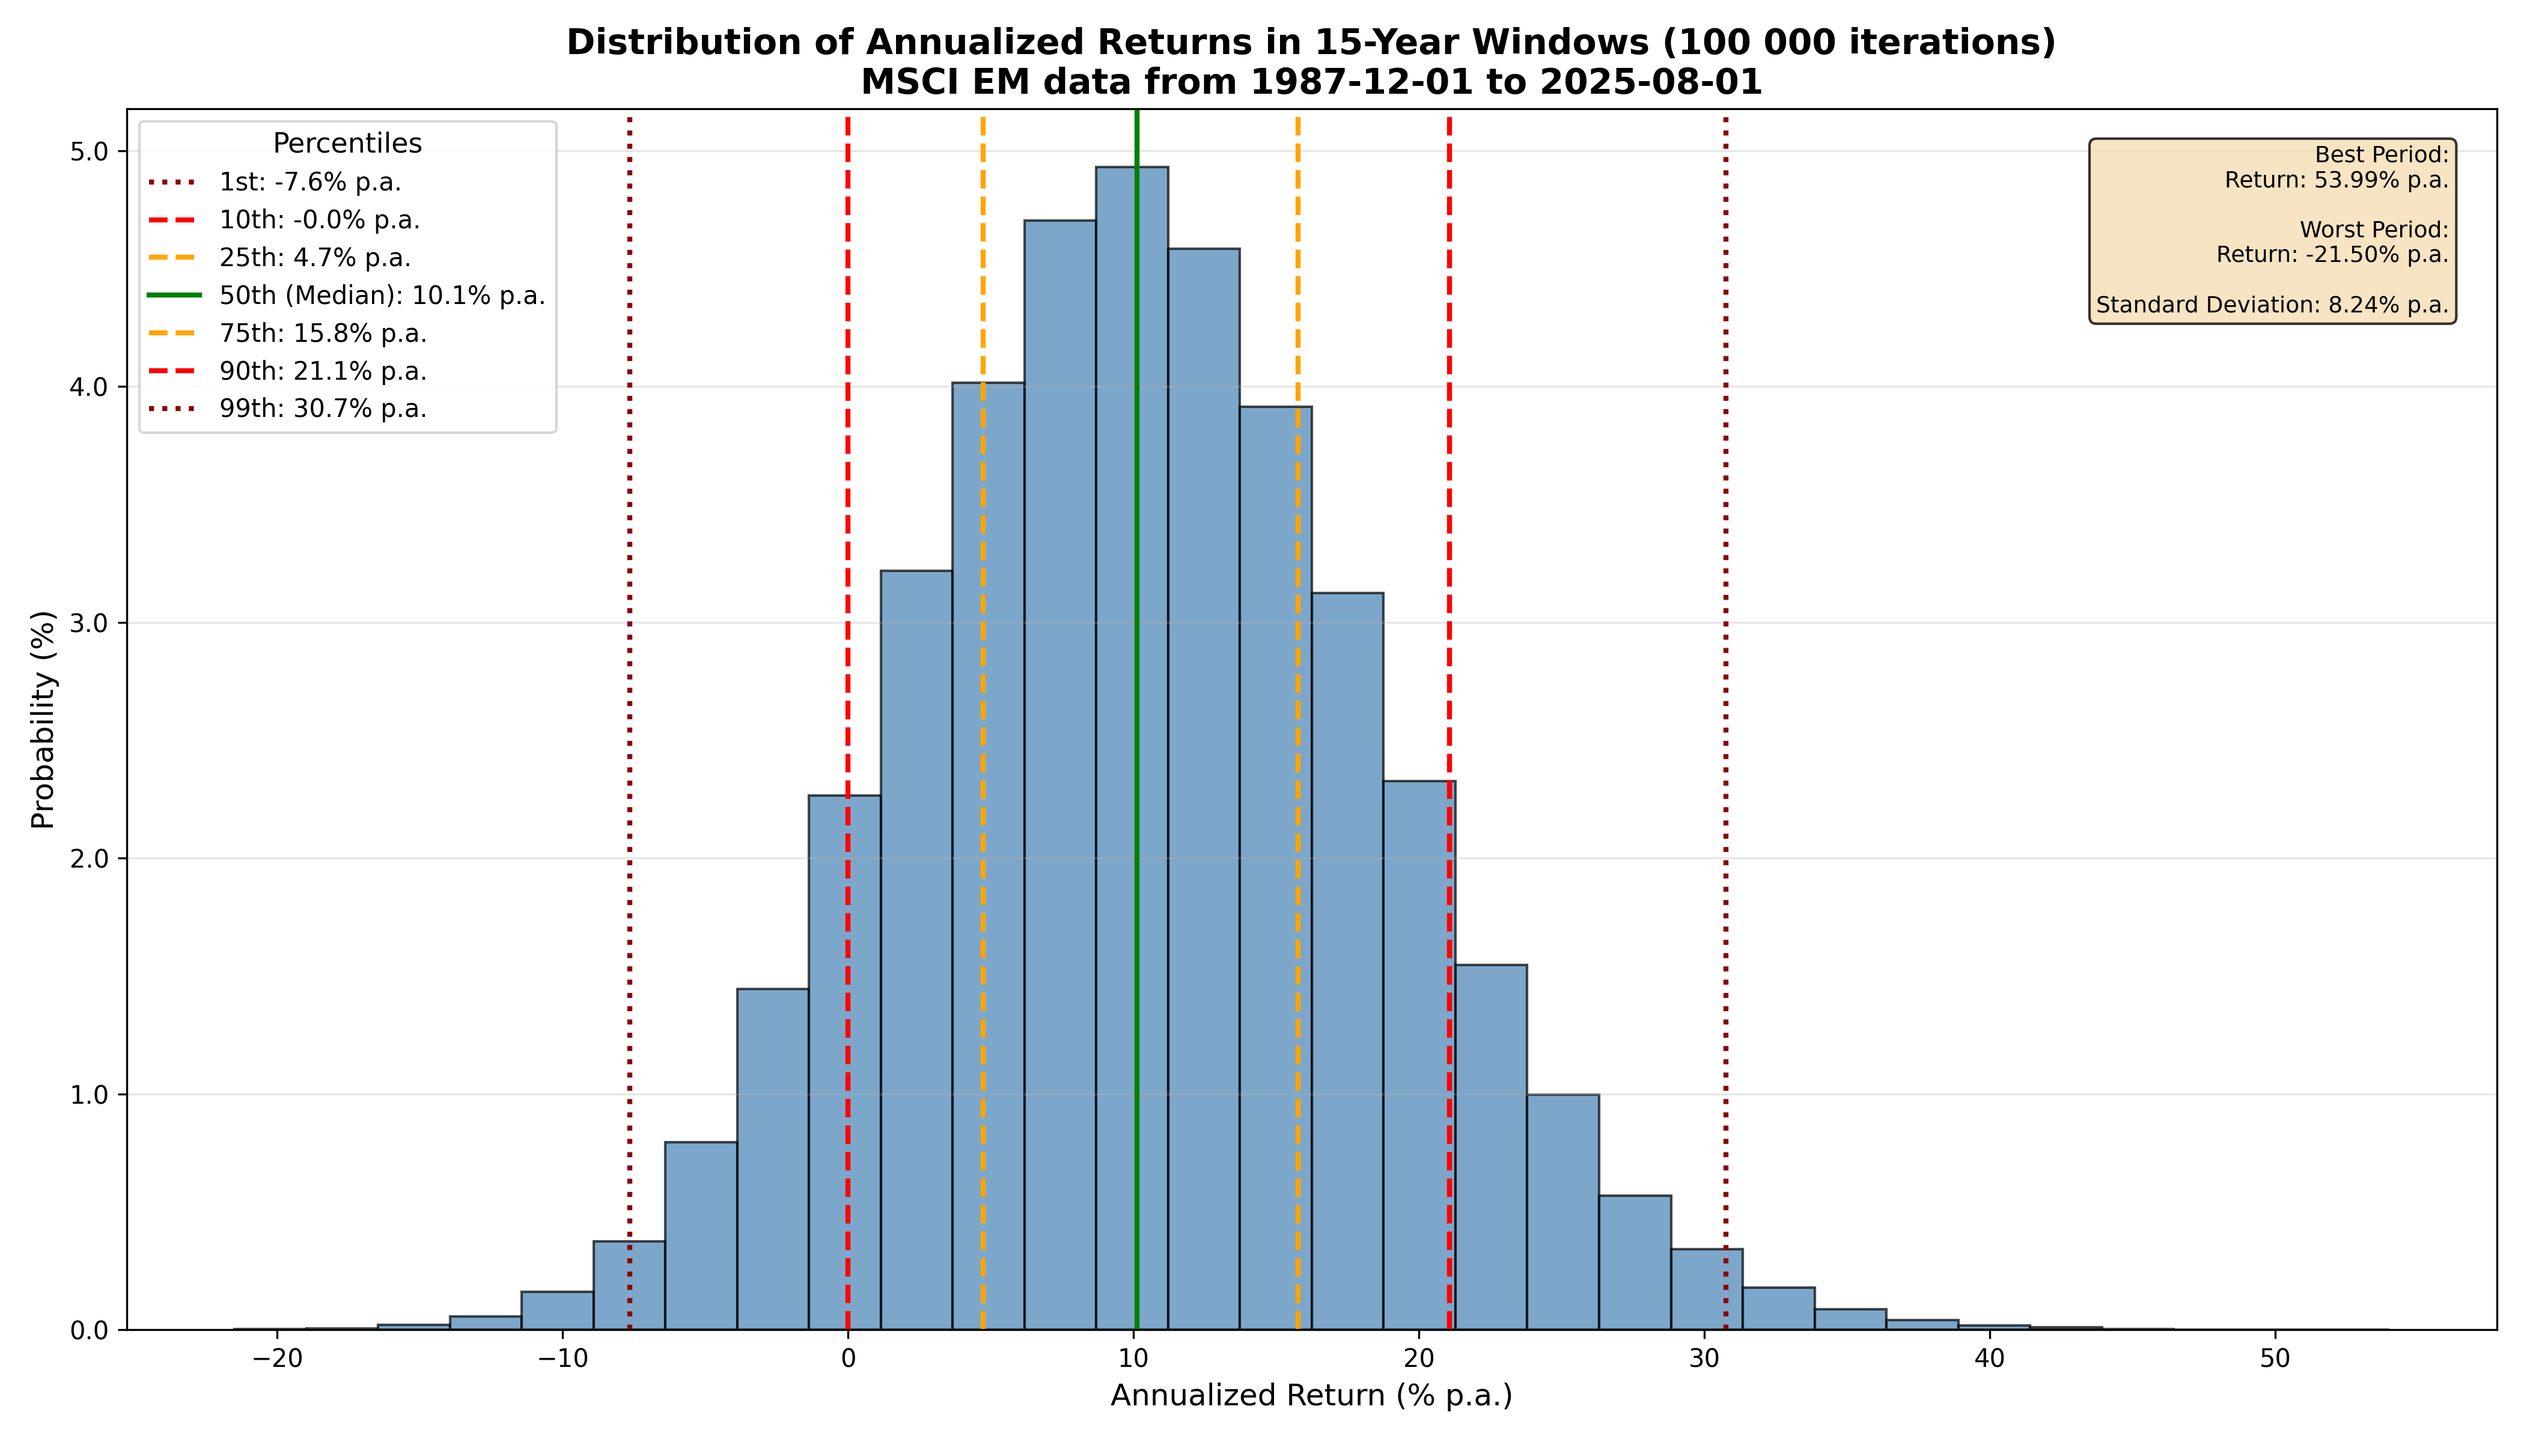
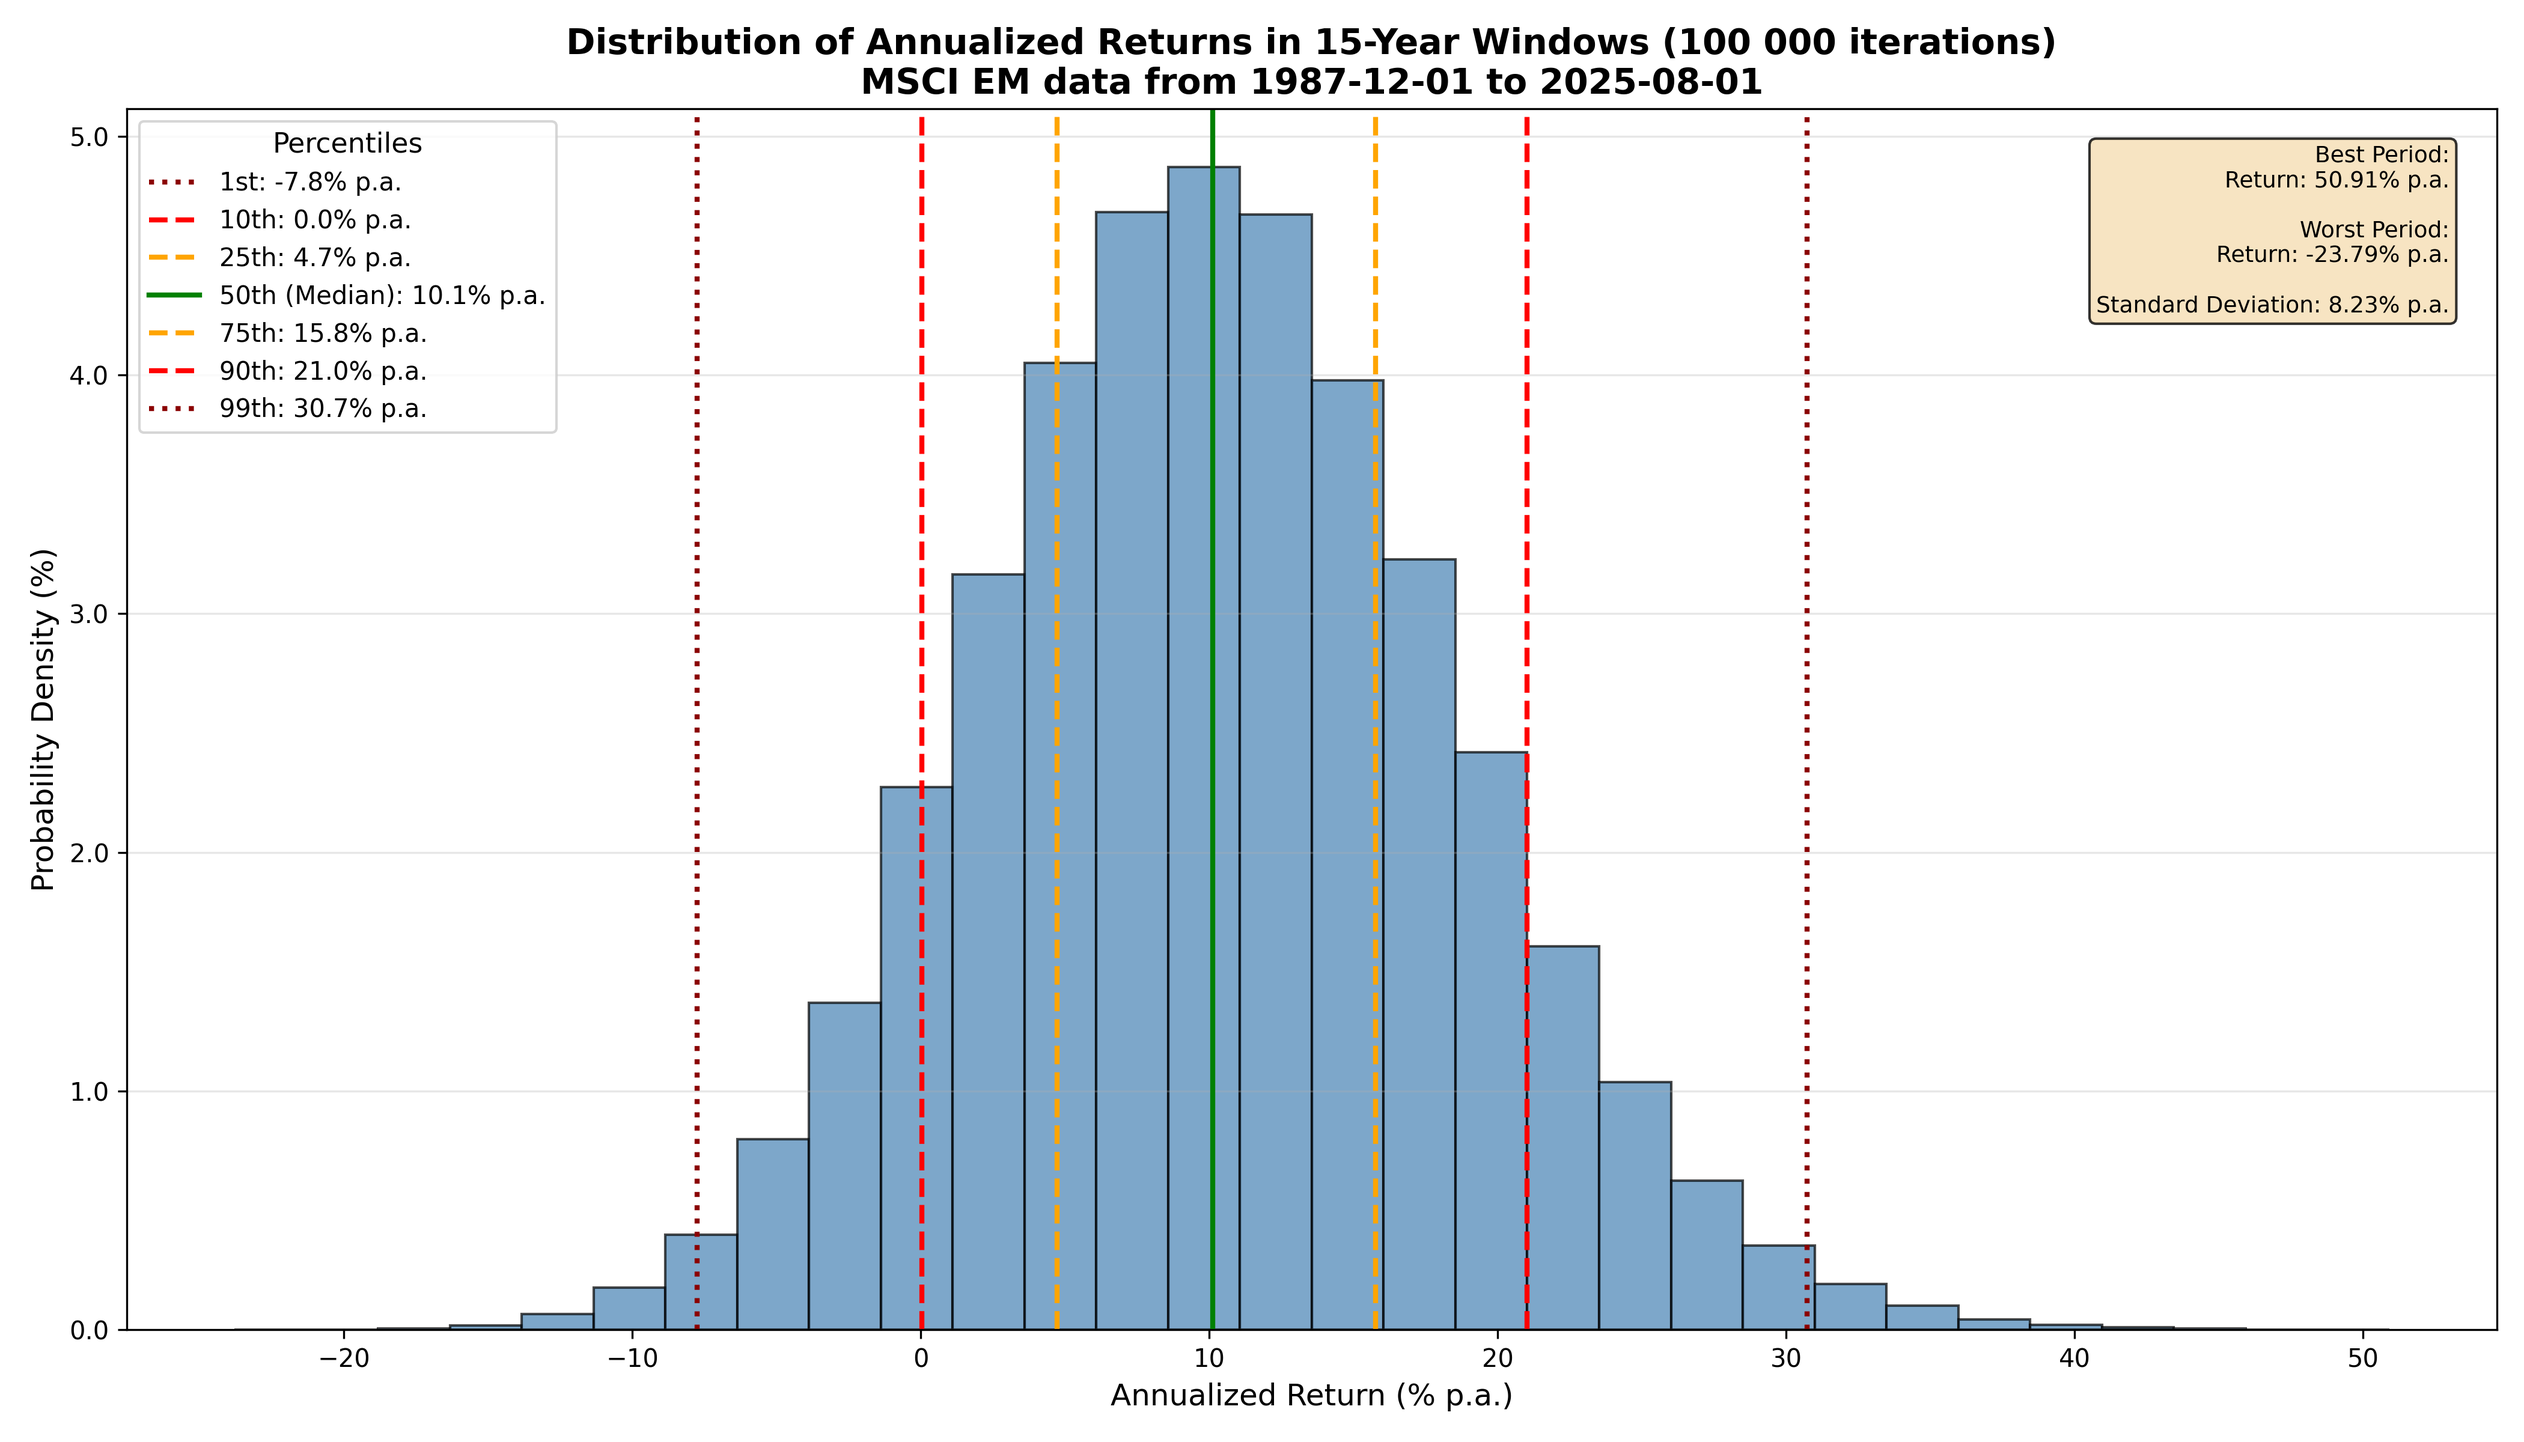
fixed typo

diff --git a/run.py b/run.py
@@ -8,9 +8,9 @@ import matplotlib.pyplot as plt
 #ticker = "^GSPC"    # S&P 500 index (much longer, WARNING: does not include dividends)
 #ticker = "^SP500TR"  # S&P 500 index including reinvested dividends (total return)
 #ticker = "^GDAXI"   # DAX index including reinvested dividends (total return)
-ticker = "data/msci_world_curvo.csv"  # CSV file (needs Date column + price column)
+ticker = "data/ftse_all_world_curvo.csv"  # CSV file (needs Date column + price column)
 duration_years = 15 # Number of years for each return period
-plot_name = "" # Optional; sets custom name in plot title when not empty
+plot_name = "FTSE All-World" # Optional; sets custom name in plot title when not empty
 
 scramble_years = True # Pick random years (True: Standard Bootstrap) instead of sequential years (False: Block Bootstrap)
 scramble_iteration = 1e5  # Number of iterations for Standard Bootstrap
@@ -412,7 +412,7 @@ def plot_returns_histogram(returns, duration_years, ticker, best_period, worst_p
     #           linewidth=3, label=f'Overall: {overall_return*100:.1f}% p.a.')
     
     plt.xlabel('Annualized Return (% p.a.)', fontsize=12)
-    plt.ylabel('Probability (%)', fontsize=12)
+    plt.ylabel('Probability Density (%)', fontsize=12)
     
     # Format y-axis as percentage
     ax = plt.gca()
